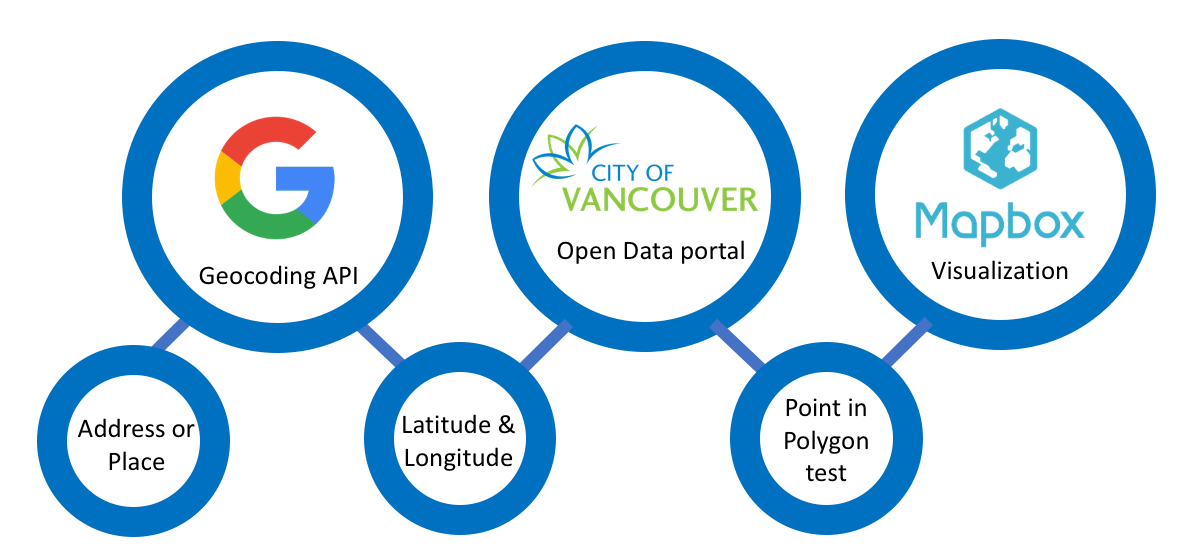
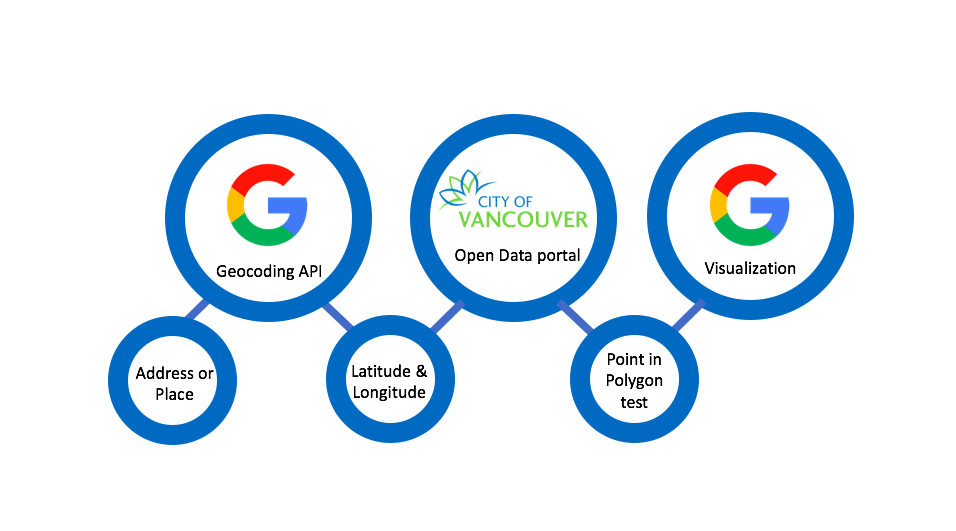
fix pipeline image to show that I used google maps instead of mapbox to render KML shape. modified description to include links to the Data BC geocoder. they do provide developer apikeys now so anyone can request the use ot Data BC's batch geocoder with no CORS restriction

diff --git a/index.html b/index.html
@@ -83,7 +83,8 @@
                 <br/>
                 The app currently only works properly for Vancouver addresses. If you want to use it
                 on another city/area, just input a new shapefile in Step 2. The next step is to prepare the app for
-                batch conversion, I am still waiting for DataBC's geocoder apikey :).
+                batch conversion, with the help of <a href="http://apps.gov.bc.ca/pub/api-explorer/?url=https://raw.githubusercontent.com/bcgov/api-specs/master/geocoder/gated-geocoder.json"> DataBC's geocoder</a>. 
+                The geocoding service requires an apikey, which can be requested from <a href="https://forms.gov.bc.ca/databc-contact-us/">the DataBC helpdesk</a>.
               </p>
             </div>
 
